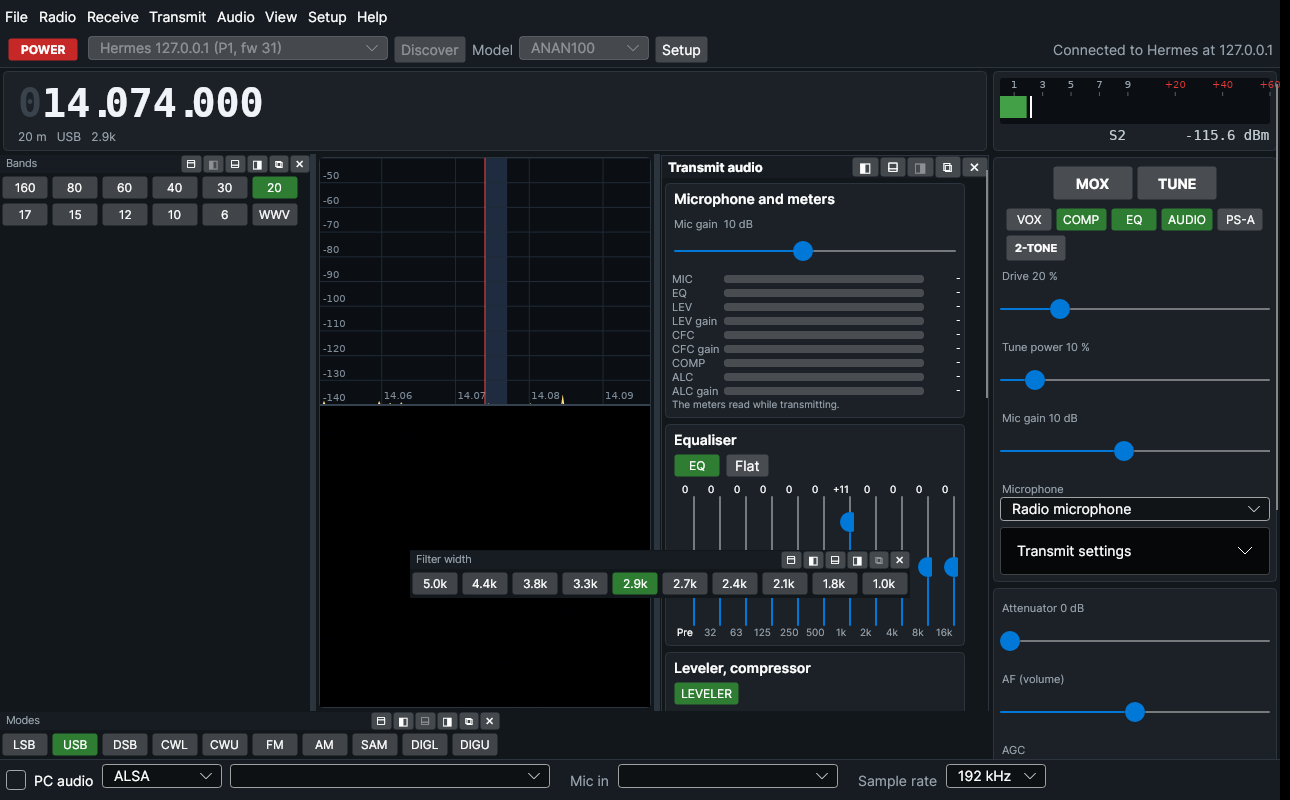
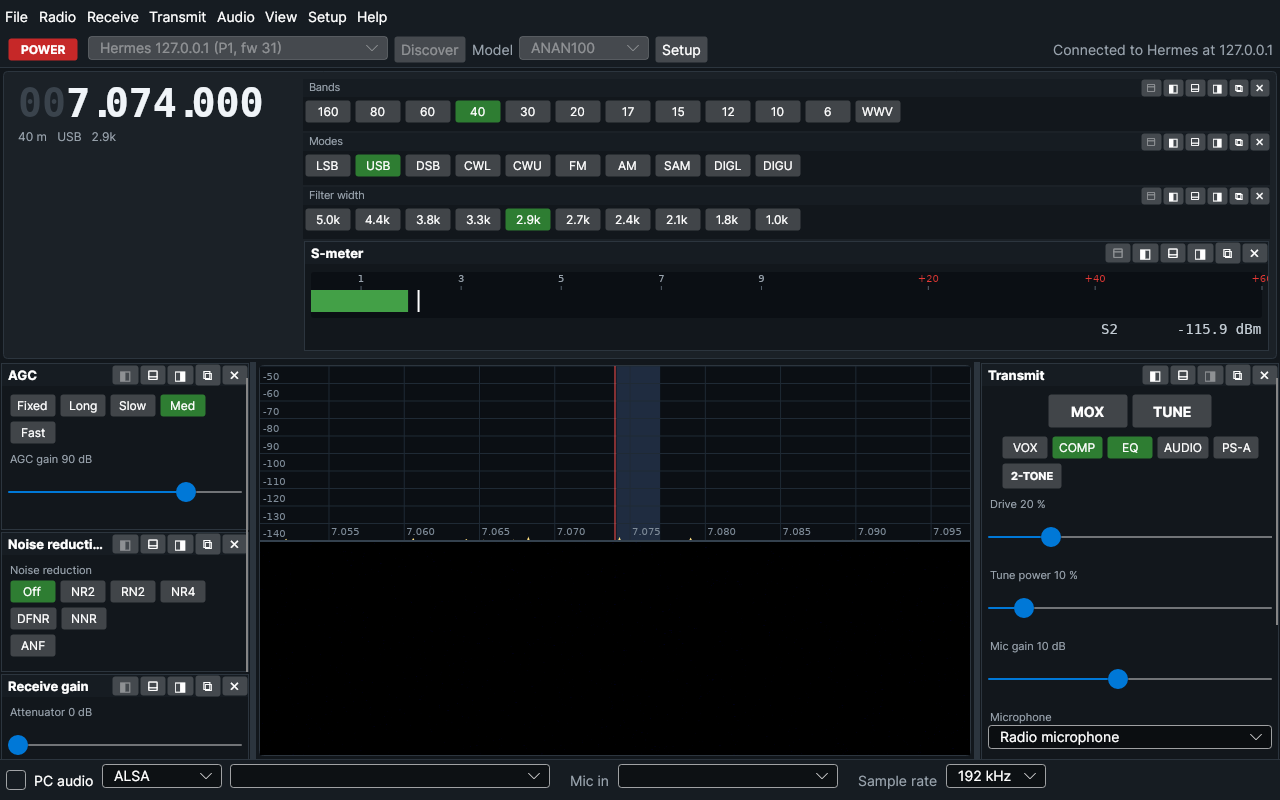
Linux: every control group a resizable dockable panel
The fixed column on the right of the panadapter is gone: the S-meter,
Transmit (MOX, TUNE, VOX, COMP, EQ, AUDIO, PS-A, 2-TONE, drive, tune power,
mic gain, microphone), Transmit settings, Receive gain, AGC, Noise reduction
and Tuning and display are each a dockable panel like the band, mode and
filter buttons, and dock on the right by default.

Every docked panel has a grip on its edge: its height at the top, left or
right, its width at the bottom. A panel whose contents do not fit scrolls;
double-clicking the grip, or View > Panels > (panel) > Fit to the contents,
sizes it to its contents again. The sizes are saved with the layout.

Claude-Session: https://claude.ai/code/session_01VRBJf5XysEgrWf4aQed99V

diff --git a/Project Files/Source/Linux/Thetis.Desktop/MainWindow.Panels.cs b/Project Files/Source/Linux/Thetis.Desktop/MainWindow.Panels.cs
@@ -3,11 +3,14 @@
 This file is part of a program that implements a Software-Defined Radio.
 
 The dockable panels: the band buttons, the mode buttons, the filter width
-buttons and the transmit audio panel.  Each can sit at the top (next to the
-VFO, where the buttons are by default), on the left or right of the
-panadapter, below it, or in a window of its own; several panels can share a
-place.  The splitters resize the left, right and bottom places.  Where each
-panel is, its order and its window are saved with the settings.
+buttons, the S-meter, transmit (MOX, TUNE, drive, mic gain), transmit
+settings, receive gain, AGC, noise reduction, tuning and display, and the
+transmit audio panel.  Each can sit at the top (next to the VFO, where the
+buttons are by default), on the left or right of the panadapter (where the
+rest are), below it, or in a window of its own; several panels can share a
+place.  The splitters resize the left, right and bottom places, and each
+docked panel's grip its own height (or its width at the bottom).  Where each
+panel is, its order, size and window are saved with the settings.
 
 This program is free software; you can redistribute it and/or
 modify it under the terms of the GNU General Public License
@@ -22,6 +25,7 @@ using System.Linq;
 using Avalonia;
 using Avalonia.Controls;
 using Avalonia.Media;
+using Avalonia.Threading;
 using Thetis.Desktop.Controls;
 
 namespace Thetis.Desktop
@@ -49,6 +53,8 @@ namespace Thetis.Desktop
         private bool _closingMain;          // the main window is closing: its panel windows close with it, still shown
 
         public const string BandPanelKey = "bands", ModePanelKey = "modes", FilterPanelKey = "filters", TxPanelKey = "txaudio";
+        public const string MeterPanelKey = "meter", TransmitPanelKey = "transmit", TxSettingsPanelKey = "txsettings",
+                            ReceivePanelKey = "receive", AgcPanelKey = "agc", NoisePanelKey = "nr", DisplayPanelKey = "tuning";
 
         private const double DockMinWidth = 200, DockMinHeight = 60;
 
@@ -60,16 +66,37 @@ namespace Thetis.Desktop
             AddPanel(BandPanelKey, "Bands", BandPanel, allowTop: true, compact: true, PanelDock.Top, true, 0);
             AddPanel(ModePanelKey, "Modes", ModePanel, allowTop: true, compact: true, PanelDock.Top, true, 1);
             AddPanel(FilterPanelKey, "Filter width", FilterPanel, allowTop: true, compact: true, PanelDock.Top, true, 2);
-            AddPanel(TxPanelKey, "Transmit audio", _txPanel, allowTop: false, compact: false, PanelDock.Right, false, 3);
+            // what was the fixed column on the right: taken out of PanelParts (MainWindow.axaml)
+            AddPart(MeterPanelKey, "S-meter", MeterPart, allowTop: true, visible: true, 10);
+            AddPart(TransmitPanelKey, "Transmit", TransmitPart, allowTop: false, visible: true, 11);
+            AddPart(TxSettingsPanelKey, "Transmit settings", TxSettingsPart, allowTop: false, visible: false, 12);
+            AddPart(ReceivePanelKey, "Receive gain", ReceivePart, allowTop: false, visible: true, 13);
+            AddPart(AgcPanelKey, "AGC", AgcPart, allowTop: false, visible: true, 14);
+            AddPart(NoisePanelKey, "Noise reduction", NoisePart, allowTop: false, visible: true, 15);
+            AddPart(DisplayPanelKey, "Tuning and display", DisplayPart, allowTop: false, visible: true, 16);
+            AddPanel(TxPanelKey, "Transmit audio", _txPanel, allowTop: false, compact: false, PanelDock.Right, false, 17, scroll: false);
             MigrateTxPanelSettings();
         }
 
-        private void AddPanel(string key, string title, Control body, bool allowTop, bool compact, PanelDock dock, bool visible, int order)
+        private void AddPart(string key, string title, Control part, bool allowTop, bool visible, int order)
         {
-            var frame = new DockFrame(key, title, body, allowTop, compact);
+            PanelParts.Children.Remove(part);
+            AddPanel(key, title, part, allowTop, compact: false, PanelDock.Right, visible, order);
+        }
+
+        private void AddPanel(string key, string title, Control body, bool allowTop, bool compact, PanelDock dock, bool visible, int order,
+                              bool scroll = true)
+        {
+            var frame = new DockFrame(key, title, body, allowTop, compact, scroll);
             frame.DockRequested += d => MovePanel(key, d);
             frame.CloseRequested += () => ShowPanel(key, false);
             frame.TearOffRequested += at => MovePanel(key, PanelDock.Float, at);
+            frame.Resized += size =>
+            {
+                var l = Layout(key);
+                if (frame.Dock == PanelDock.Bottom) l.DockWidth = size;
+                else l.DockHeight = size;
+            };
             _panels[key] = new DockedPanel { Frame = frame, DefaultDock = dock, DefaultVisible = visible, DefaultOrder = order };
         }
 
@@ -82,7 +109,7 @@ namespace Thetis.Desktop
             {
                 Visible = _settings.TxPanelVisible,
                 Dock = _settings.TxPanelDock == PanelDock.Top ? PanelDock.Right : _settings.TxPanelDock,
-                Order = 3,
+                Order = 17,
                 X = _settings.TxPanelX,
                 Y = _settings.TxPanelY,
                 Width = _settings.TxPanelFloatWidth,
@@ -148,7 +175,7 @@ namespace Thetis.Desktop
             SyncPanelToggles();
         }
 
-        /// <summary>Everything back to the defaults: buttons at the top, transmit audio hidden on the right.</summary>
+        /// <summary>Everything back to the defaults: buttons at the top, the rest on the right, transmit audio hidden.</summary>
         private void ResetPanelLayout()
         {
             foreach (var key in _panels.Keys) Detach(key, false);
@@ -173,6 +200,7 @@ namespace Thetis.Desktop
             var l = Layout(key);
             Detach(key, keepWindow: dock == PanelDock.Float && at == null);
             p.Frame.Dock = dock;
+            p.Frame.SetDockedSize(dock == PanelDock.Bottom ? l.DockWidth : l.DockHeight);
             if (p.Frame.Body == _txPanel) _txPanel.Refresh();
 
             var area = Area(dock);
@@ -304,6 +332,15 @@ namespace Thetis.Desktop
             _updating = false;
         }
 
+        /// <summary>Show a panel and scroll the docking place to it.</summary>
+        private void RevealPanel(string key)
+        {
+            ShowPanel(key, true);
+            var p = _panels[key];
+            if (p.Window != null) p.Window.Activate();
+            else Dispatcher.UIThread.Post(() => p.Frame.BringIntoView());
+        }
+
         /// <summary>View menu: each panel with show / hide and where it goes.</summary>
         private List<Control> PanelMenus()
         {
@@ -319,6 +356,9 @@ namespace Thetis.Desktop
                 sub.Add(Radio("_Right", shown && l.Dock == PanelDock.Right, () => MovePanel(key, PanelDock.Right)));
                 sub.Add(Radio("_Bottom", shown && l.Dock == PanelDock.Bottom, () => MovePanel(key, PanelDock.Bottom)));
                 sub.Add(Radio("_Own window", shown && l.Dock == PanelDock.Float, () => MovePanel(key, PanelDock.Float)));
+                sub.Add(new Separator());
+                sub.Add(Item("_Fit to the contents", () => { l.DockHeight = l.DockWidth = null; p.Frame.SetDockedSize(null); },
+                             enabled: shown && p.Frame.Dock != PanelDock.Float && (l.DockHeight != null || l.DockWidth != null)));
                 items.Add(Sub(p.Frame.Title, sub));
             }
             items.Add(new Separator());

diff --git a/Project Files/Source/Linux/Thetis.Desktop/Controls/DockFrame.cs b/Project Files/Source/Linux/Thetis.Desktop/Controls/DockFrame.cs
@@ -6,7 +6,11 @@ The frame around a dockable panel (bands, modes, filters, transmit audio):
 a title bar with buttons that put the panel at the top (next to the VFO),
 left, right or bottom of the main window, or in a window of its own, and a
 close button.  Dragging the title bar takes a docked panel out into a
-window.  MainWindow.Panels.cs does the placing.
+window.  A grip on the edge resizes a docked panel: its height where the
+panels stand one above the other (top, left, right), its width at the
+bottom; double-clicking the grip fits the panel to its contents again.  A
+window of its own is resized like any window.  MainWindow.Panels.cs does the
+placing.
 
 This program is free software; you can redistribute it and/or
 modify it under the terms of the GNU General Public License
@@ -40,9 +44,15 @@ namespace Thetis.Desktop.Controls
         private readonly Control _body;
         private Point? _dragFrom;
         private PanelDock _dock = PanelDock.Float;
+        private readonly Border _grip;
+        private Point? _resizeFrom;
+        private double _resizeStart;
+
+        private const double MinSize = 40;
 
         private static readonly IBrush HeaderBg = new SolidColorBrush(Color.Parse("#161C22"));
         private static readonly IBrush Muted = new SolidColorBrush(Color.Parse("#9AA4AE"));
+        private static readonly IBrush GripHover = new SolidColorBrush(Color.Parse("#3A4652"));
 
         public string Key { get; }
         public string Title { get; }
@@ -63,8 +73,12 @@ namespace Thetis.Desktop.Controls
         /// <summary>The title bar was dragged away while docked: float the panel at this screen point.</summary>
         public event Action<PixelPoint> TearOffRequested;
 
+        /// <summary>The grip was used: the panel's docked size (height, or width at the bottom); null = fit the contents.</summary>
+        public event Action<double?> Resized;
+
         /// <param name="compact">A slim title bar, for small panels such as the band buttons.</param>
-        public DockFrame(string key, string title, Control body, bool allowTop, bool compact)
+        /// <param name="scroll">Put the body in a scroller (false for a body that scrolls itself).</param>
+        public DockFrame(string key, string title, Control body, bool allowTop, bool compact, bool scroll = true)
         {
             Key = key;
             Title = title;
@@ -91,6 +105,7 @@ namespace Thetis.Desktop.Controls
                 Text = title, FontSize = font, FontWeight = compact ? FontWeight.Normal : FontWeight.Bold,
                 VerticalAlignment = VerticalAlignment.Center,
                 Margin = new Thickness(6, 0), Cursor = new Cursor(StandardCursorType.SizeAll),
+                TextTrimming = TextTrimming.CharacterEllipsis,
             };
             if (compact) label.Foreground = Muted;
             ToolTip.SetTip(label, "Drag to take the panel out of the main window");
@@ -110,9 +125,42 @@ namespace Thetis.Desktop.Controls
             };
             bar.PointerReleased += (_, _) => _dragFrom = null;
 
+            _grip = new Border { Background = Brushes.Transparent, IsVisible = false };
+            ToolTip.SetTip(_grip, "Drag to resize; double-click to fit the contents");
+            _grip.PointerPressed += (_, e) =>
+            {
+                if (!e.GetCurrentPoint(_grip).Properties.IsLeftButtonPressed) return;
+                if (e.ClickCount == 2) { SetDockedSize(null); Resized?.Invoke(null); return; }
+                _resizeFrom = e.GetPosition(this);
+                _resizeStart = Horizontal ? Bounds.Width : Bounds.Height;
+                e.Pointer.Capture(_grip);
+                e.Handled = true;
+            };
+            _grip.PointerMoved += (_, e) =>
+            {
+                if (_resizeFrom is not Point from) return;
+                var at = e.GetPosition(this);
+                double size = Math.Max(MinSize, _resizeStart + (Horizontal ? at.X - from.X : at.Y - from.Y));
+                SetDockedSize(Math.Round(size));
+            };
+            _grip.PointerReleased += (_, e) =>
+            {
+                if (_resizeFrom == null) return;
+                _resizeFrom = null;
+                e.Pointer.Capture(null);
+                Resized?.Invoke(Horizontal ? Width : Height);
+            };
+            _grip.PointerCaptureLost += (_, _) => _resizeFrom = null;
+            _grip.PointerEntered += (_, _) => _grip.Background = GripHover;
+            _grip.PointerExited += (_, _) => _grip.Background = Brushes.Transparent;
+
             var root = new DockPanel();
             root.Children.Add(bar);
-            root.Children.Add(body);
+            root.Children.Add(_grip);
+            root.Children.Add(scroll
+                ? new ScrollViewer { Content = body, HorizontalScrollBarVisibility = Avalonia.Controls.Primitives.ScrollBarVisibility.Disabled,
+                                     VerticalScrollBarVisibility = Avalonia.Controls.Primitives.ScrollBarVisibility.Auto }
+                : body);
             Content = new Border
             {
                 Background = new SolidColorBrush(Color.Parse("#12171C")),
@@ -131,7 +179,27 @@ namespace Thetis.Desktop.Controls
             {
                 _dock = value;
                 foreach (var (d, b) in _buttons) b.IsEnabled = d != value;
+                // the grip: along the bottom edge in a column of panels, along the right edge in the bottom row
+                _grip.IsVisible = value != PanelDock.Float;
+                bool across = value == PanelDock.Bottom;
+                DockPanel.SetDock(_grip, across ? Avalonia.Controls.Dock.Right : Avalonia.Controls.Dock.Bottom);
+                _grip.Width = across ? 6 : double.NaN;
+                _grip.Height = across ? double.NaN : 6;
+                _grip.Cursor = new Cursor(across ? StandardCursorType.SizeWestEast : StandardCursorType.SizeNorthSouth);
                 (_body as IDockAware)?.DockChanged(value);
+            }
+        }
+
+        private bool Horizontal => _dock == PanelDock.Bottom;
+
+        /// <summary>The size set with the grip for where the panel is now (null: fit the contents).</summary>
+        public void SetDockedSize(double? size)
+        {
+            Width = Height = double.NaN;
+            if (size is double v && _dock != PanelDock.Float)
+            {
+                if (Horizontal) Width = Math.Max(MinSize, v);
+                else Height = Math.Max(MinSize, v);
             }
         }
 

diff --git a/Project Files/Source/Linux/Thetis.Desktop/Settings.cs b/Project Files/Source/Linux/Thetis.Desktop/Settings.cs
@@ -75,7 +75,7 @@ namespace Thetis.Desktop
         public TxProcessing TxProcessing { get; set; } = new TxProcessing();
         /// <summary>CAT ports (serial, USB to RS232, virtual), the TCP CAT server and the TCI server.</summary>
         public Thetis.Cat.CatSettings Cat { get; set; } = new Thetis.Cat.CatSettings();
-        /// <summary>Dockable panels (bands, modes, filters, transmit audio) by key: shown, where, order, own window.</summary>
+        /// <summary>Dockable panels (bands, modes, filters, meter, transmit, AGC, ...) by key: shown, where, order, size, own window.</summary>
         public Dictionary<string, PanelLayout> Panels { get; set; } = new Dictionary<string, PanelLayout>();
         /// <summary>Sizes of the docking places (shared by the panels docked there).</summary>
         public double DockLeftWidth { get; set; } = 330;
@@ -166,6 +166,9 @@ namespace Thetis.Desktop
         public int? Y { get; set; }
         public double Width { get; set; }
         public double Height { get; set; }
+        /// <summary>Docked: the height set with the panel's grip (its width at the bottom); null = fit the contents.</summary>
+        public double? DockHeight { get; set; }
+        public double? DockWidth { get; set; }
     }
 
     /// <summary>

diff --git a/Project Files/Source/Linux/Thetis.Desktop/MainWindow.Menu.cs b/Project Files/Source/Linux/Thetis.Desktop/MainWindow.Menu.cs
@@ -199,7 +199,7 @@ namespace Thetis.Desktop
             new Separator(),
             Item("_Reset the spectrum scale", ResetSpectrumView),
             new Separator(),
-            Check("_Transmit settings panel", TxSettingsExpander.IsExpanded, () => TxSettingsExpander.IsExpanded = !TxSettingsExpander.IsExpanded),
+            Check("_Transmit settings panel", IsPanelShown(TxSettingsPanelKey), () => ShowPanel(TxSettingsPanelKey, !IsPanelShown(TxSettingsPanelKey))),
             Sub("_Panels", PanelMenus()),
         };
 
@@ -296,8 +296,7 @@ namespace Thetis.Desktop
 
         private void ShowTxSettings()
         {
-            TxSettingsExpander.IsExpanded = true;
-            TxSettingsExpander.BringIntoView();
+            RevealPanel(TxSettingsPanelKey);
         }
 
         private void ResetSpectrumView()

diff --git a/Project Files/Source/Linux/README.md b/Project Files/Source/Linux/README.md
@@ -83,7 +83,7 @@ The first start optimises the FFTs for your computer (FFTW "wisdom"). This
 takes several minutes, and later starts are quick. Then pick your radio and
 its model at the top, press **POWER**, and choose the sound device for
 receive audio at the bottom. Transmitting is off until you enable it and
-choose your region under **Transmit settings** (see [Transmit](#transmit)).
+choose your region in the **Transmit settings** panel (View menu; see [Transmit](#transmit)).
 
 ## Stage 1: native libraries
 
@@ -317,7 +317,7 @@ controls as the panels, so the two always agree.
 | Receive | Enter frequency, band, mode, filter, tuning step, AGC, attenuator, noise reduction (and its settings), ANF |
 | Transmit | MOX, TUNE, VOX, compressor, EQ, leveler, CESSB, CFC, phase rotator, expander, microphone, allow transmitting, region, radio PTT, SWR protection, HL2 N2ADR board, transmit filter and timeout, PA gain |
 | Audio | PC audio, sound system, output device, input device |
-| View | Zoom in / out, full span, reset the spectrum scale, transmit settings panel |
+| View | Zoom in / out, full span, reset the spectrum scale, transmit settings panel, panels (show, place, fit, reset) |
 | Setup | The setup window, or any of its pages directly |
 | Help | Keyboard and mouse, receive diagnostics, project page, about |
 
@@ -328,24 +328,48 @@ cannot key the transmitter.
 
 ### Dockable panels
 
-![Bands on the left, modes at the bottom, filter widths in their own window, transmit audio on the right](docs/screenshot-panels.png)
+![Band, mode and filter buttons and the S-meter at the top; AGC, noise reduction and receive gain on the left; transmit on the right](docs/screenshot-panels.png)
 
-The **band buttons**, the **mode buttons**, the **filter width buttons** and
-the [transmit audio panel](#transmit-audio-panel) are separate panels. Each
-has a title bar with buttons that put it:
+Everything around the panadapter is a separate panel:
 
-* ⬒ at the top, next to the VFO. The button panels are here by default, where
-  the Windows console has them.
+| Panel | Contents | Default place |
+|---|---|---|
+| Bands, Modes, Filter width | The band, mode and filter width buttons | Top, next to the VFO |
+| S-meter | The receive meter (S units and dBm) | Right |
+| Transmit | MOX, TUNE, VOX, COMP, EQ, AUDIO, PS-A, 2-TONE, the power and SWR readout, drive, tune power, mic gain, microphone | Right |
+| Transmit settings | Allow transmitting, region, transmit filter, timeout, radio PTT, SWR protection, band limit beep, HL2 N2ADR board | Hidden (View menu) |
+| Receive gain | Attenuator and AF (volume) | Right |
+| AGC | The AGC modes and the AGC gain | Right |
+| Noise reduction | NR, NR2, NR4, DFNR, NNR, ... and ANF | Right |
+| Tuning and display | Tuning step and panadapter zoom | Right |
+| [Transmit audio](#transmit-audio-panel) | EQ, leveler, compressor, CFC, VOX, meters | Hidden (AUDIO button) |
+
+Each panel has a title bar with buttons that put it:
+
+* ⬒ at the top, next to the VFO. The button panels and the S-meter can go
+  here.
 * ◧ on the left or ◨ on the right of the panadapter
 * ⬓ below the panadapter
 * ⧉ in a window of its own
 
 ✕ closes a panel. Dragging a docked panel's title bar takes it out into a
-window. Several panels can share a place, and they keep their order. The
-lines between the panadapter and the left, right and bottom places resize
-them. A place with only button panels fits them, and the button rows wrap to
-its width. **View → Panels** shows, hides and places each panel, and
-**Reset the panel layout** puts everything back. Where each panel is and its
+window. Several panels can share a place, and they keep their order.
+
+Every panel can be resized:
+
+* The lines between the panadapter and the left, right and bottom places set
+  the width of the left and right columns and the height of the bottom row.
+* The grip on a docked panel's edge sets that panel's own size: its bottom
+  edge sets its height at the top, left and right, and its right edge sets
+  its width at the bottom. The grip lights up under the mouse. When the
+  contents do not fit, the panel scrolls; double-clicking the grip (or
+  **View → Panels → *panel* → Fit to the contents**) sizes it to its
+  contents again.
+* A panel in its own window is resized like any window.
+
+A place with only button panels fits them, and the button rows wrap to its
+width. **View → Panels** shows, hides and places each panel, and **Reset the
+panel layout** puts everything back. Where each panel is, its size and its
 window's position and size are saved.
 
 ### PC audio (VAC)
